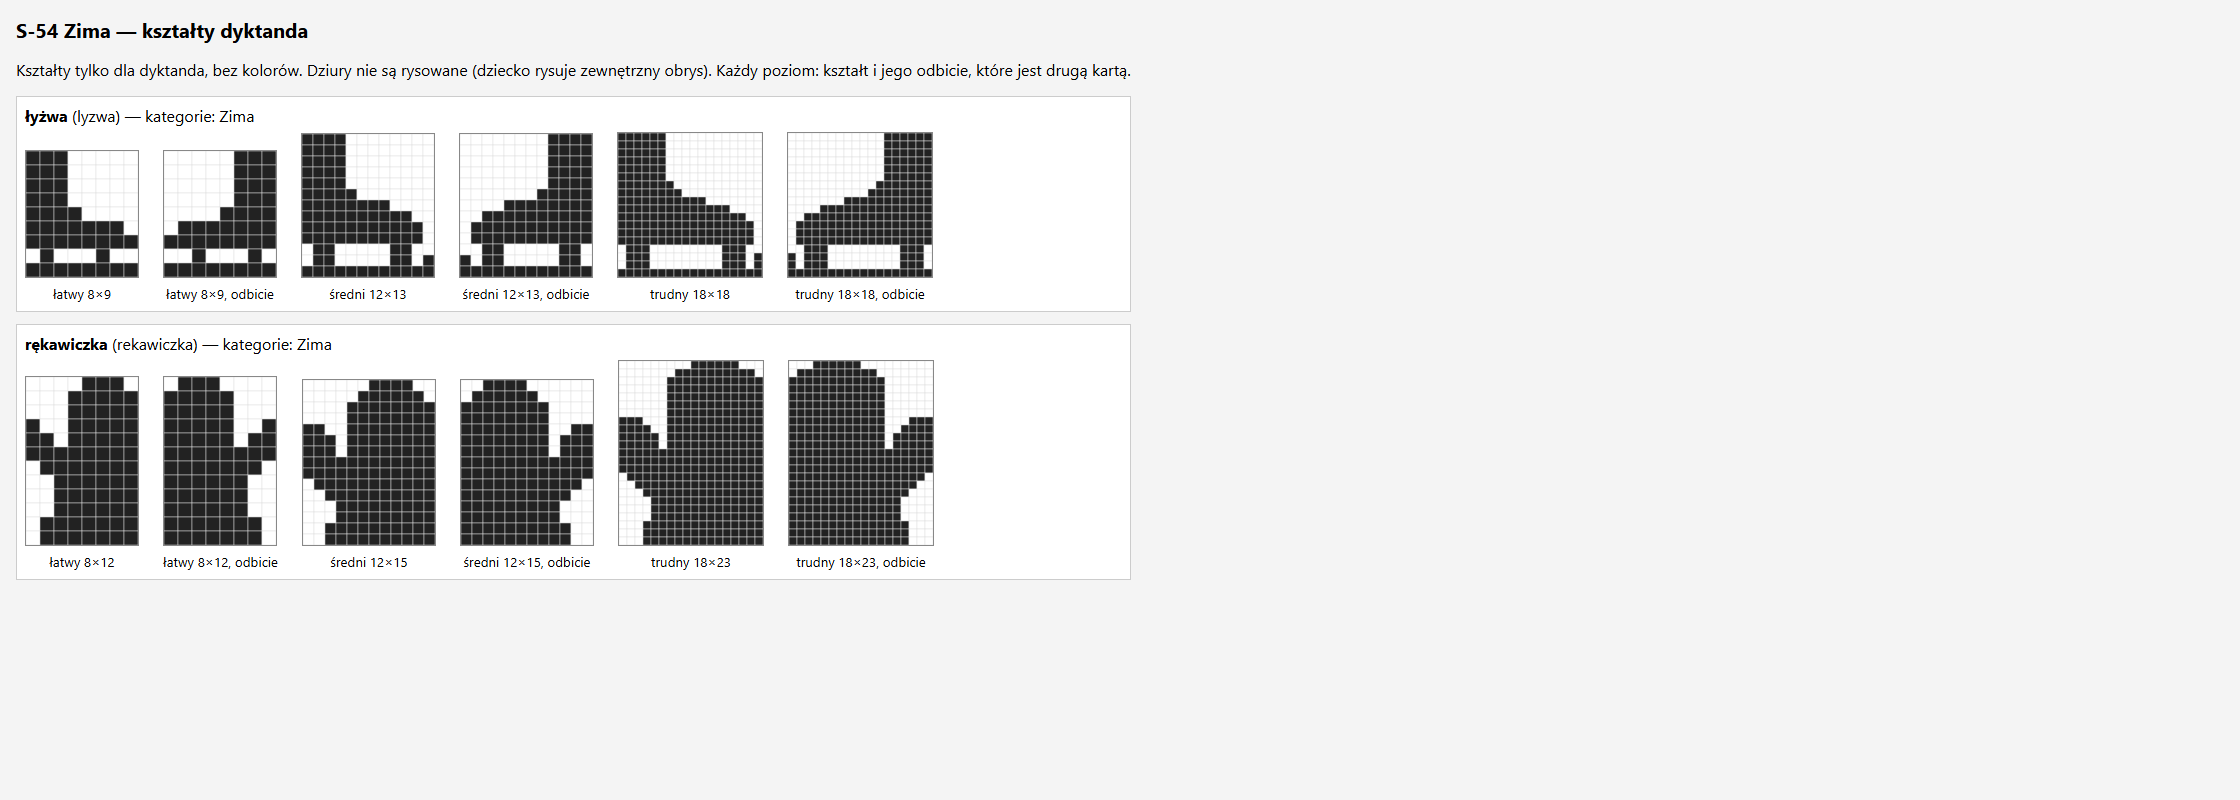
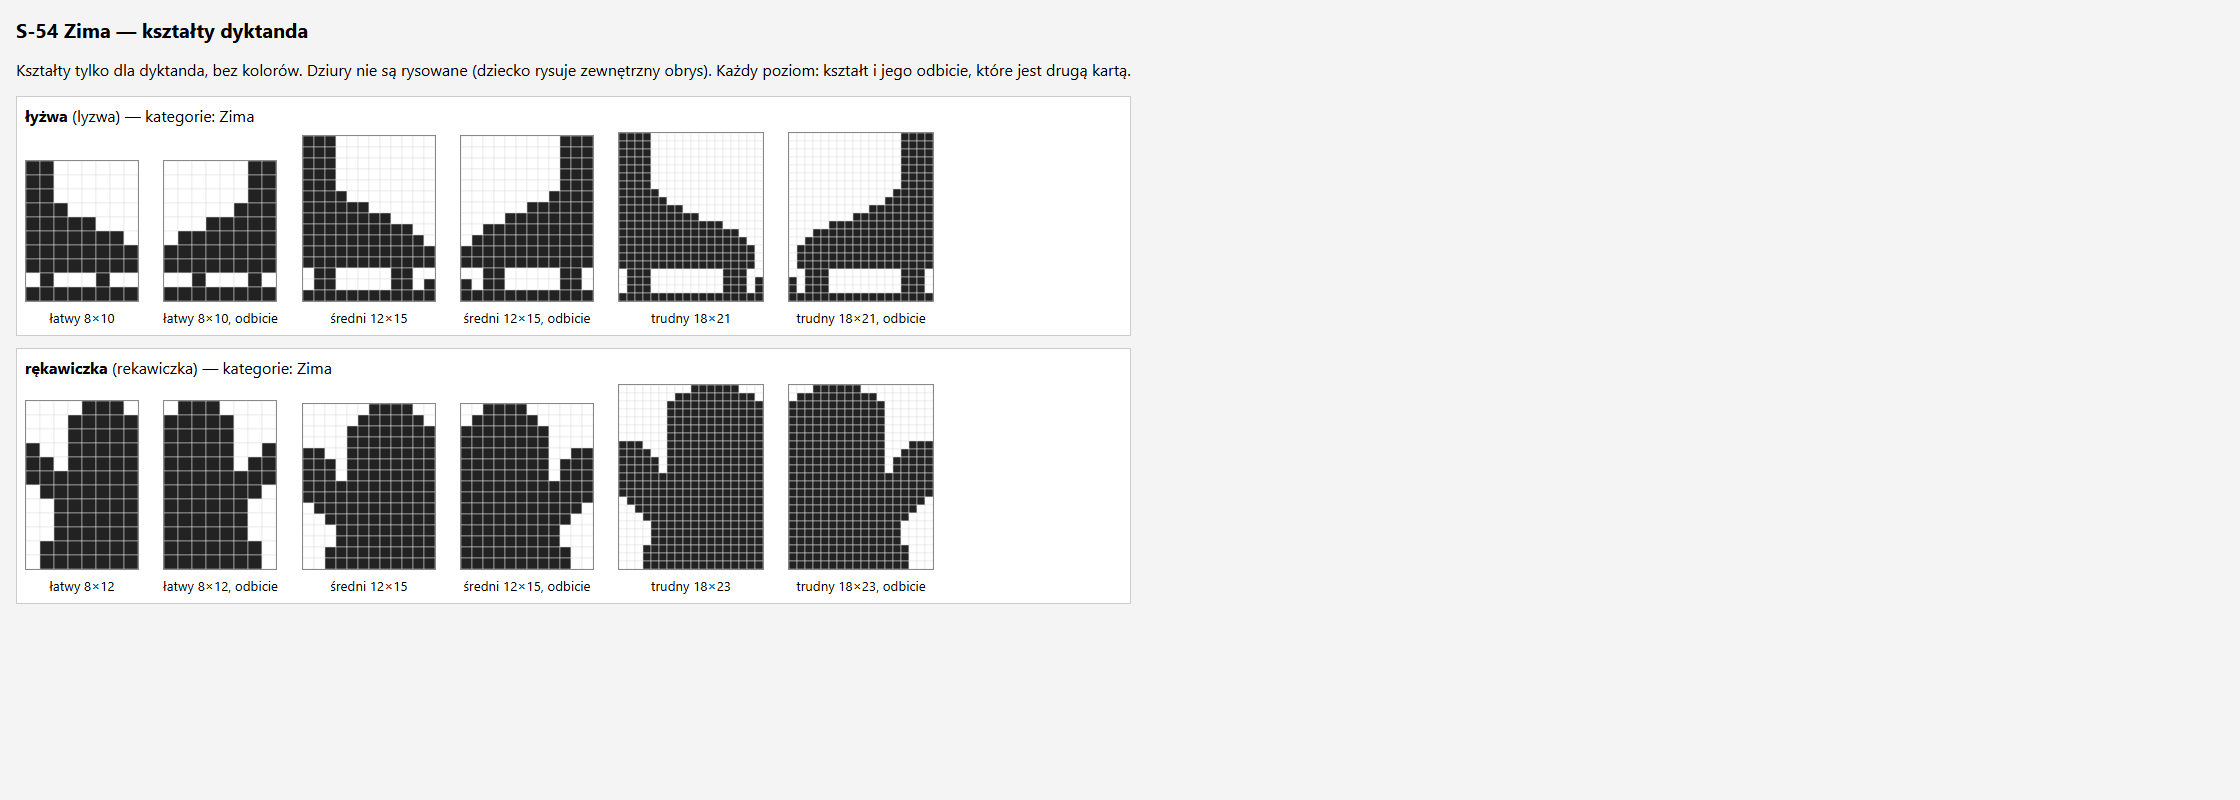
docs(seasons): węższa cholewka łyżwy, przegląd fazy 1

diff --git a/context/changes/seasons-objects-characters/reviews/impl-review-phase-1.md b/context/changes/seasons-objects-characters/reviews/impl-review-phase-1.md
@@ -1,0 +1,45 @@
+<!-- IMPL-REVIEW-REPORT -->
+
+# Implementation Review: Zima: obiekty i postacie w oknie dat (S-54)
+
+- **Plan**: context/changes/seasons-objects-characters/plan.md
+- **Scope**: Phase 1 of 6
+- **Reviewed phases**: 1
+- **Date**: 2026-11-23
+- **Verdict**: APPROVED
+- **Findings**: 0 critical, 0 warnings, 2 observations
+
+## Verdicts
+
+| Dimension           | Verdict |
+| ------------------- | ------- |
+| Plan Adherence      | PASS    |
+| Scope Discipline    | PASS    |
+| Safety & Quality    | PASS    |
+| Architecture        | PASS    |
+| Pattern Consistency | PASS    |
+| Success Criteria    | PASS    |
+
+Evidence: the branch changes only files under `context/` (mockup scripts, JSON, PNG, plan, roadmap), so CI skips `ci`, `smoke` and `e2e`. `eslint.config.js:83` ignores `context/**/*.mts`. The rules script reports `RESULT: 0 errors` for 5 objects in three sizes and 2 dictation shapes (`mockup-measure.txt`). The user accepted the PNG previews on 2026-11-23 and kept the scarf ("Zostaw szalik").
+
+## Findings
+
+### F1 — Plan brief still names „narty” as a dictation shape
+
+- **Severity**: OBSERVATION
+- **Impact**: 🏃 LOW — quick decision; fix is obvious and narrowly scoped
+- **Dimension**: Plan Adherence
+- **Location**: context/changes/seasons-objects-characters/plan-brief.md:26
+- **Detail**: The mockup has łyżwa and rękawiczka. Narty were dropped because they do not form one closed outline. The brief still says "narty, łyżwa", and the objects row says "może narty".
+- **Fix**: In plan-brief.md, change the dictation row to "łyżwa, rękawiczka (makieta 2026-11-23; narty odpadły)" and note the dropped narty in the objects row.
+- **Decision**: PENDING
+
+### F2 — Szalik in 4×12 reads like a figure in black
+
+- **Severity**: OBSERVATION
+- **Impact**: 🏃 LOW — quick decision; fix is obvious and narrowly scoped
+- **Dimension**: Success Criteria
+- **Location**: context/changes/seasons-objects-characters/build-drawings.mts (szalik half4)
+- **Detail**: The manual criterion is about how readable the black version is at 4×12. In black at 4×12, the scarf's loop and hanging ends look like a head and legs. The user saw this and chose to keep the scarf. It goes to the staging print test in Phase 3.
+- **Fix**: No change now. Check it again on the Phase 3 staging print.
+- **Decision**: ACCEPTED — user kept the scarf 2026-11-23

diff --git a/context/changes/seasons-objects-characters/change.md b/context/changes/seasons-objects-characters/change.md
@@ -1,9 +1,9 @@
 ---
 change_id: seasons-objects-characters
 title: Zimowe obiekty i postacie w oknie dat (grudzień–luty)
-status: implementing
+status: impl_reviewed
 created: 2026-11-22
-updated: 2026-11-22
+updated: 2026-11-23
 archived_at: null
 ---
 
